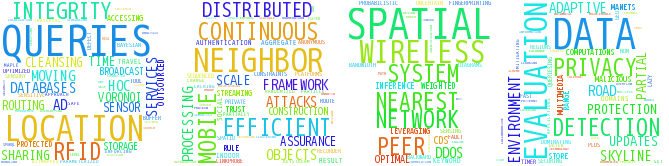
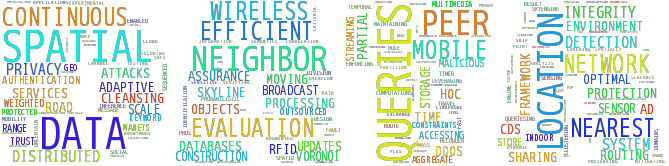
afrl link, zhang ji position

diff --git a/gulpfile.js b/gulpfile.js
@@ -1,18 +1,20 @@
 var path = require('path');
-var gulp = require('gulp');
 
 var merge = require('merge2');
+var changed = require('gulp-changed');
 
+var gulp = require('gulp');
+var concat = require('gulp-continuous-concat');
+var filter = require('gulp-filter');
 var flatmap = require('gulp-flatmap');
 var htmlmin = require('gulp-htmlmin');
 var mustache = require('gulp-mustache');
+var plumber = require('gulp-plumber');
 var postcss = require('gulp-postcss');
 var rename = require('gulp-rename');
-var watch = require('gulp-watch');
 var sass = require('gulp-sass');
-var concat = require('gulp-continuous-concat');
-var filter = require('gulp-filter');
 var uglify = require('gulp-uglify');
+var watch = require('gulp-watch');
 
 var cssnano = require('cssnano');
 
@@ -41,6 +43,7 @@ gulp.task('browser-sync', function() {
 gulp.task('mustache', function() {
   return gulp.src('./src/templates/*.mustache')
     .pipe(watch('./src/templates/*.mustache', {verbose: true}))
+    .pipe(changed(build))
     .pipe(flatmap(function(stream, file) {
       var dirname = path.dirname(file.path);
       var stem = path.basename(file.path, '.mustache');
@@ -83,6 +86,7 @@ gulp.task('postcss', function() {
         .pipe(concat('vender.css'));
 
   return merge([css_stream, scss_stream])
+    .pipe(changed(path.join(build, 'css')))
     .pipe(concat('style.css'))
     .pipe(postcss(processors))
     .pipe(gulp.dest(path.join(build, 'css')))
@@ -96,15 +100,19 @@ gulp.task('postcss', function() {
 gulp.task('static', function() {
   var font_stream = gulp.src('./src/fonts/*')
         .pipe(watch('./src/fonts/*'))
+        .pipe(changed(path.join(build, 'fonts')))
         .pipe(gulp.dest(path.join(build, 'fonts')));
   var img_stream = gulp.src('./src/img/*')
         .pipe(watch('./src/img/*'))
+        .pipe(changed(path.join(build, 'img')))
         .pipe(gulp.dest(path.join(build, 'img')));
   var js_stream = gulp.src('./src/js/*')
         .pipe(watch('./src/js/*'))
+        .pipe(changed(path.join(build, 'js')))
         .pipe(gulp.dest(path.join(build, 'js')));
   var bib_stream = gulp.src('./src/templates/*.bib')
         .pipe(watch('./src/templates/*.bib'))
+        .pipe(changed(path.join(build, 'publication')))
         .pipe(gulp.dest(path.join(build, 'publication')));
 
   return merge([font_stream, img_stream, js_stream, bib_stream])

diff --git a/titlecloud/word-cloud.py b/titlecloud/word-cloud.py
@@ -37,14 +37,15 @@ mask.paste(icon, icon)
 mask = np.array(mask)
 
 cloud_generator = wc.WordCloud(mask=mask,
-                               background_color='white',
+                               background_color=None,
                                # max_font_size=300,
+                               mode='RGBA',
                                font_path='mplus-1m-regular-webfont.ttf',
                                stopwords=stopwords)
 title_cloud = cloud_generator.generate(text)
 title_cloud.to_file('title0.png')
 
-plt.imshow(title_cloud)
-plt.axis('off')
-plt.show()
-plt.savefig("title1.png",bbox_inches='tight')
+# plt.imshow(title_cloud)
+# plt.axis('off')
+# plt.show()
+# plt.savefig("title1.png",bbox_inches='tight')
